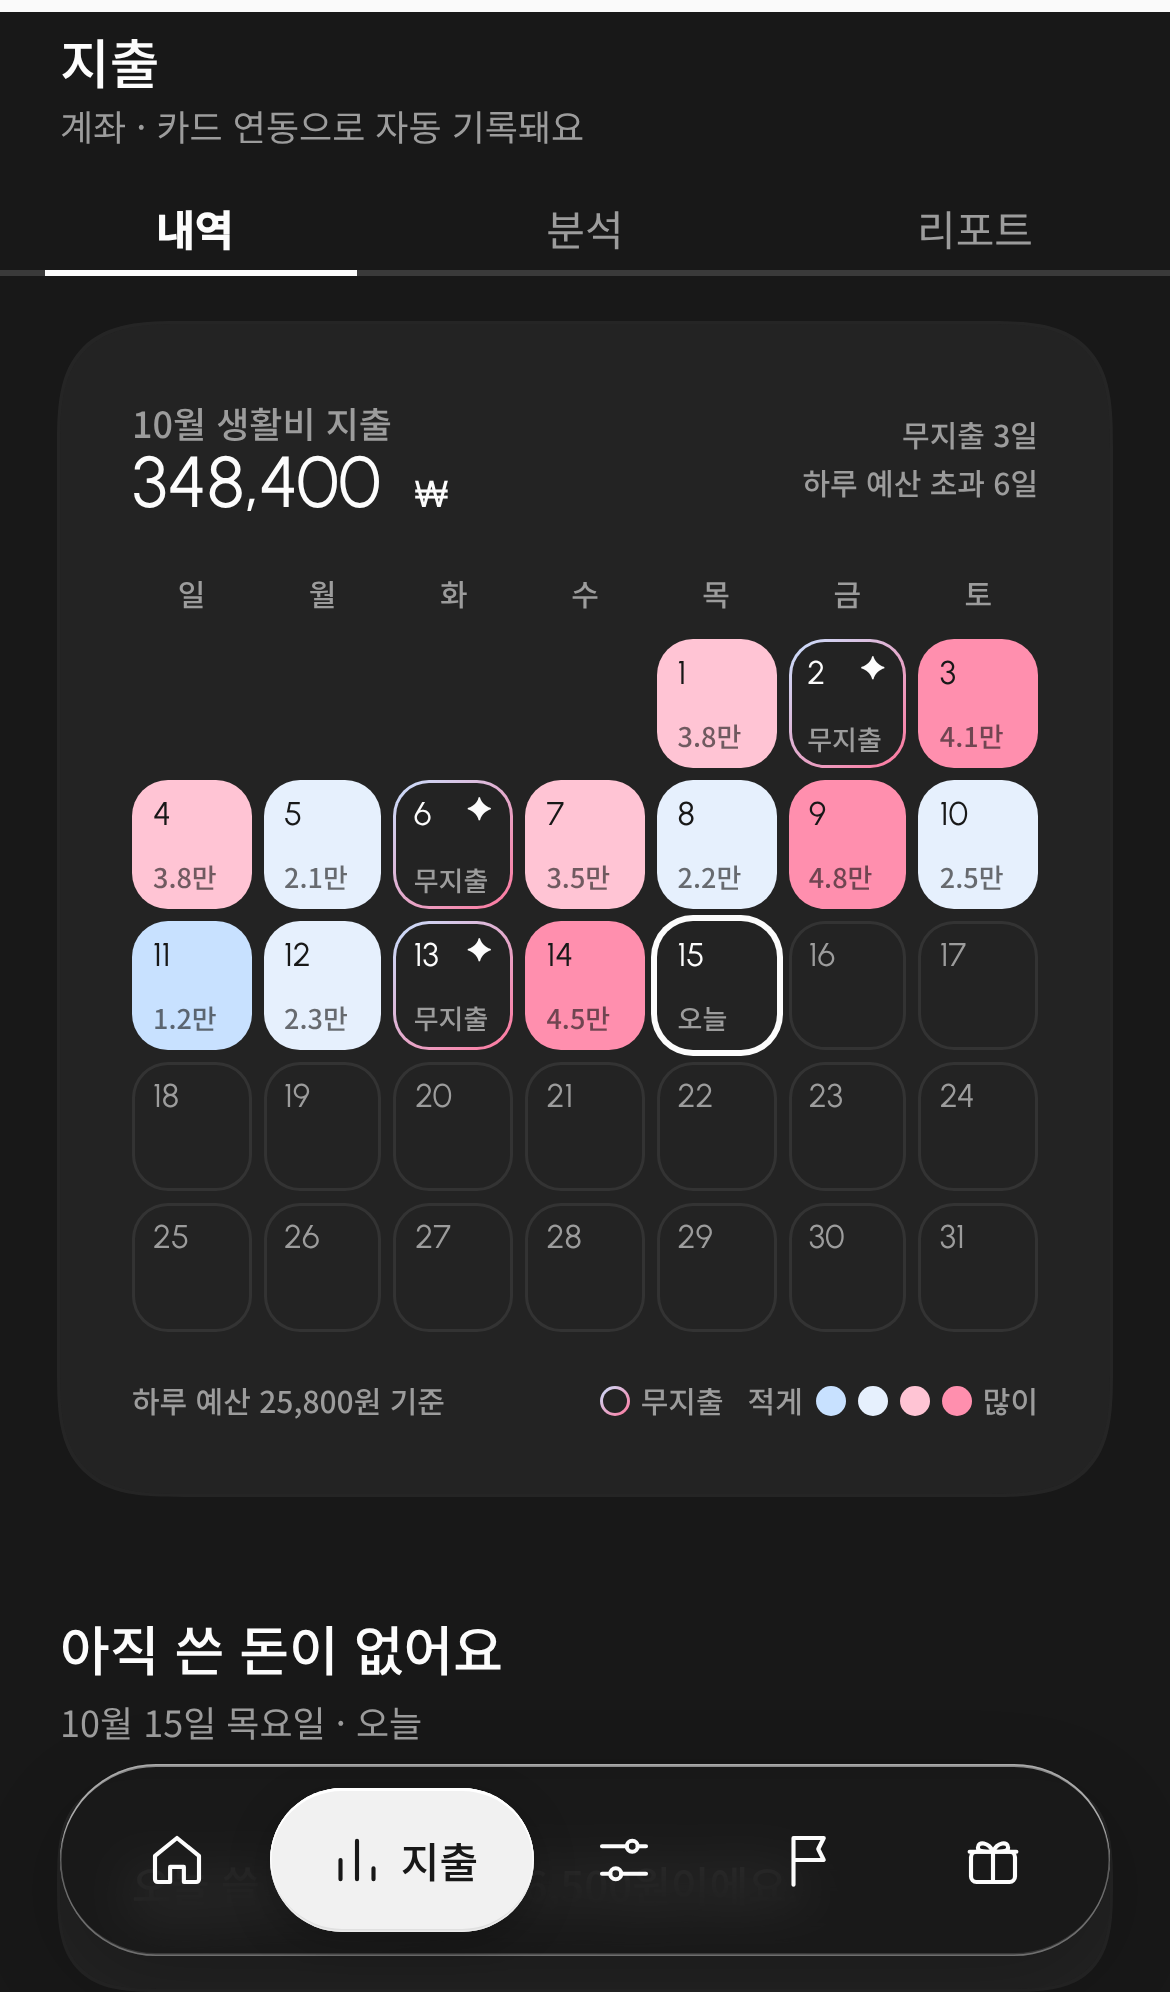
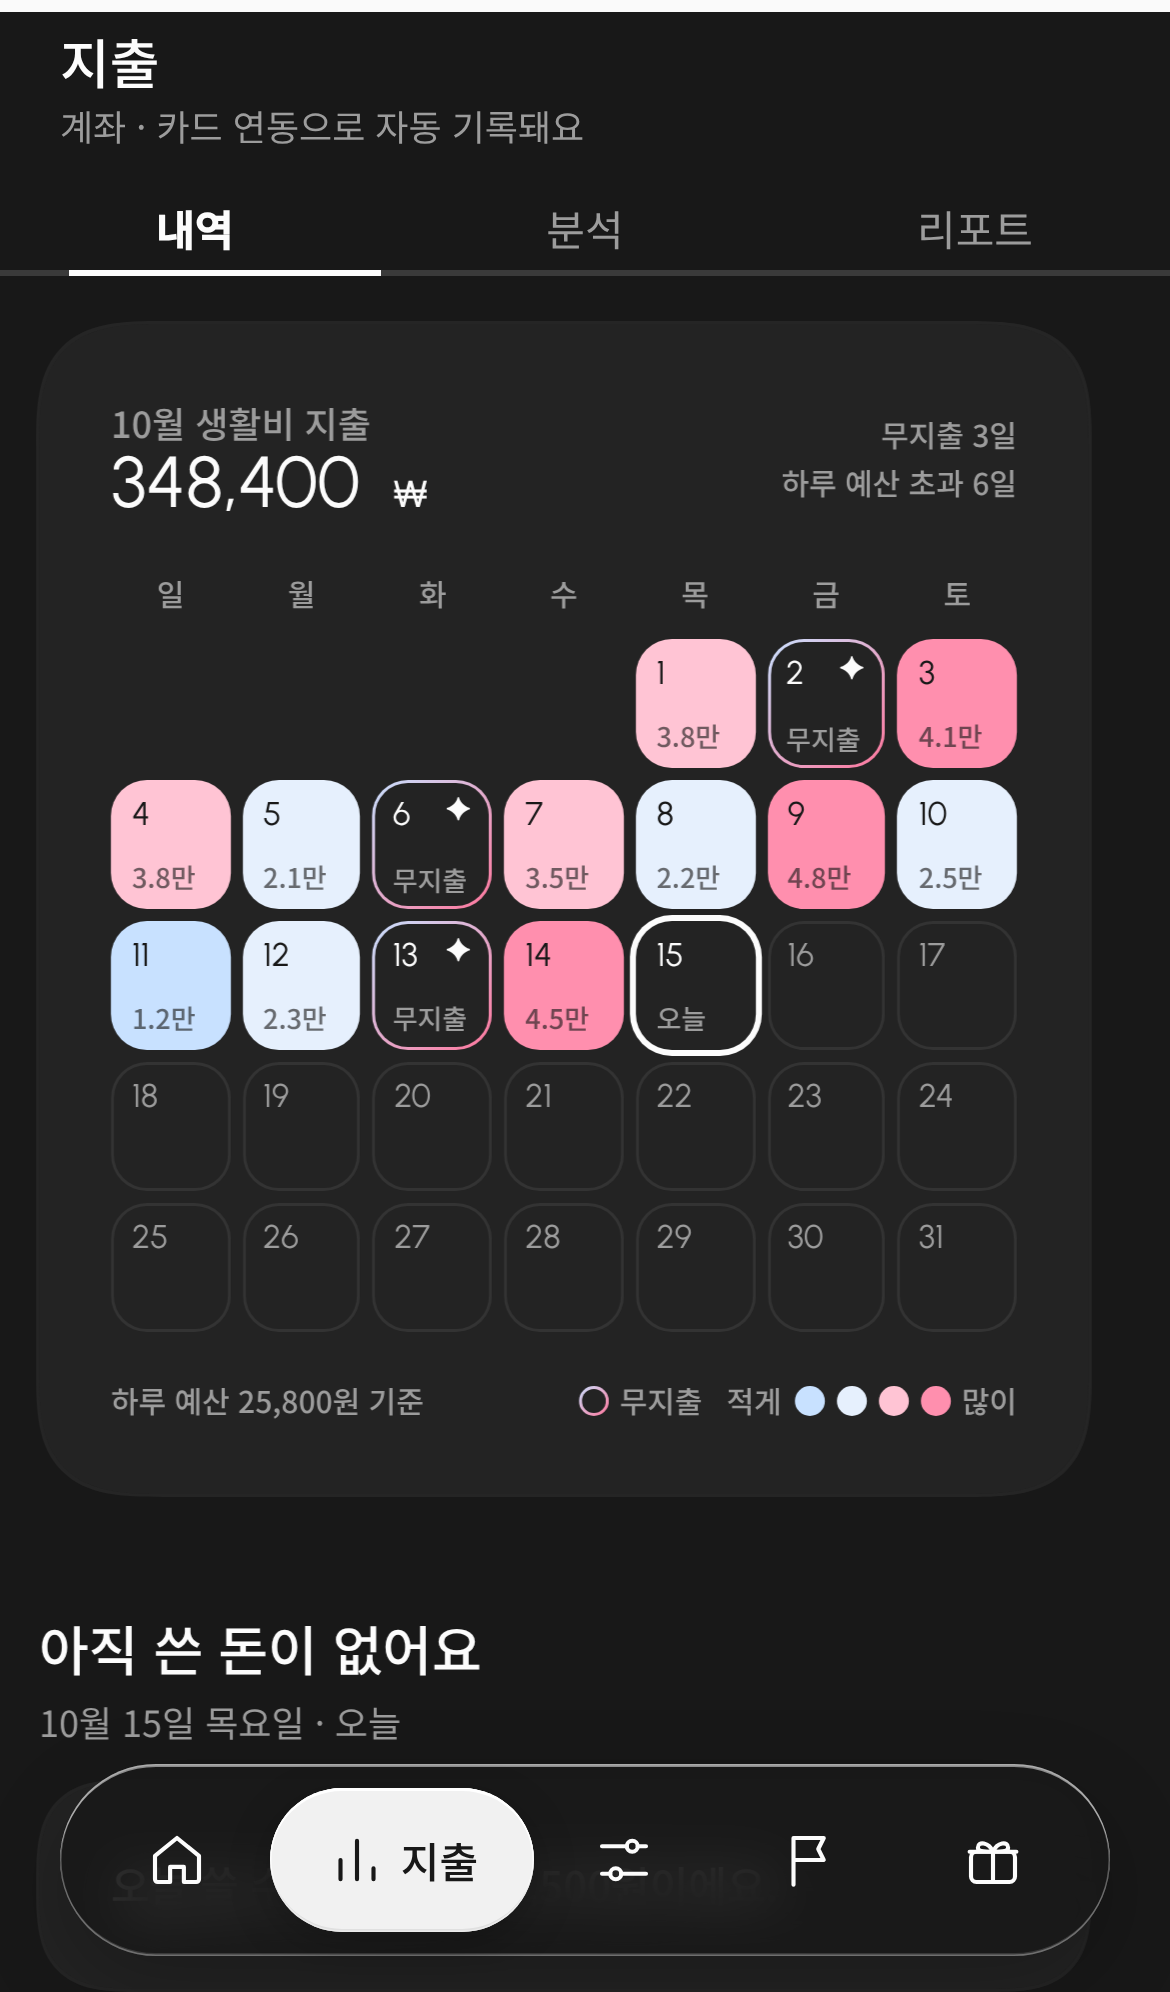
Sub-tab swipe: pager-style transition — the previous page slides out while the new one slides in alongside it, continuing from the finger position
Claude-Session: https://claude.ai/code/session_01VpnAjTRuZHLsKs1fRGNVt9

diff --git a/dist/finpick-mobile.html b/dist/finpick-mobile.html
@@ -219,8 +219,9 @@ svg{display:block}
 .utabs button{flex:1;height:40px;display:flex;align-items:flex-end;justify-content:center;padding-bottom:7px;font-size:14px;font-weight:400;line-height:17px;color:var(--mute);position:relative}
 .utabs button.on{color:var(--fg);font-weight:600}
 /* 밑줄은 하나만 두고 위치(--i)를 옮겨서, 세부 탭을 넘길 때 손가락을 따라 미끄러지게 */
-.utabs::after{content:"";position:absolute;bottom:0;height:2px;background:var(--fg);width:calc(80% / 3);left:calc((var(--i,0) + .1) * 100% / 3);transition:left .22s cubic-bezier(.3,.7,.3,1)}
+.utabs::after{content:"";position:absolute;bottom:0;height:2px;background:var(--fg);width:calc(80% / 3);left:calc((var(--i,0) + .1) * 100% / 3);transition:left .34s cubic-bezier(.3,.7,.3,1)}
 .utabs.drag::after{transition:none}
+.sub-ghost{position:absolute;left:0;right:0;padding:0 var(--m);display:flow-root;pointer-events:none}
 .utabs + .row,.shead + .row{margin-top:14px}
 .chip.pchip{height:28px;padding:0 12px;font-size:12px;gap:4px;box-shadow:none;border:.5px solid var(--line)}
 .screen.dark .chip.pchip{border-color:#595959}
@@ -1928,17 +1929,25 @@ const SUBS = { spend:['spendView', ['list','analysis','report']], plan:['planVie
 const subPanes = () => [...view.children].filter(c => !c.classList.contains('shead'));
 const setPanes = (els, x, t) => els.forEach(e => { e.style.transition = t ? `transform ${t}` : 'none'; e.style.transform = x ? `translateX(${x}px)` : ''; });
 let swipe = null, swiped = false;
-function goSub(ni, dir, from) {
-  // 이전 화면을 밀어내지 않고 바로 바꾼 뒤, 새 화면이 넘긴 방향에서 짧게(36px) 들어오게 해 어지럽지 않게
+function goSub(ni, dir, from, d = 0) {
+  // 페이지 넘김: 이전 화면(복제본)이 밀려 나가는 동시에 새 화면이 옆에서 이어 들어온다
   const [k, l] = SUBS[S.tab]; if (ni < 0 || ni >= l.length || l[ni] === S[k]) return;
+  const old = subPanes().filter(e => !e.classList.contains('sub-ghost') && !e.classList.contains('ht-end'));
+  const reduce = matchMedia('(prefers-reduced-motion: reduce)').matches, w = view.clientWidth;
+  let ghost = null;
+  if (!reduce && old.length) {
+    ghost = document.createElement('div'); ghost.className = 'sub-ghost';
+    ghost.style.top = (old[0].offsetTop - parseFloat(getComputedStyle(old[0]).marginTop) - view.scrollTop) + 'px';
+    old.forEach(e => { const c = e.cloneNode(true); c.style.transform = ''; c.style.transition = ''; c.removeAttribute('id'); c.querySelectorAll('[id]').forEach(x => x.removeAttribute('id')); ghost.append(c); });
+  }
   S[k] = l[ni]; render(false);
-  if (matchMedia('(prefers-reduced-motion: reduce)').matches) return;
-  const ut = view.querySelector('.utabs'), ne = subPanes();
+  if (reduce) return;
+  const ut = view.querySelector('.utabs'), ne = subPanes(), ease = '.34s cubic-bezier(.25,.8,.25,1)';
   if (ut) { ut.classList.add('drag'); ut.style.setProperty('--i', from); void ut.offsetWidth; ut.classList.remove('drag'); ut.style.setProperty('--i', ni); }
-  ne.forEach(e => { e.style.transition = 'none'; e.style.transform = `translateX(${dir * 36}px)`; e.style.opacity = '0'; });
-  void view.offsetWidth;
-  ne.forEach(e => { e.style.transition = 'transform .2s cubic-bezier(.2,.7,.3,1), opacity .16s linear'; e.style.transform = ''; e.style.opacity = ''; });
-  setTimeout(() => ne.forEach(e => { e.style.transition = ''; }), 220);
+  if (ghost) { ghost.style.transform = `translateX(${d}px)`; view.append(ghost); }
+  setPanes(ne, dir * w + d); void view.offsetWidth;
+  setPanes(ne, 0, ease); if (ghost) { ghost.style.transition = `transform ${ease}`; ghost.style.transform = `translateX(${-dir * w}px)`; }
+  setTimeout(() => { ne.forEach(e => { e.style.transition = ''; }); ghost && ghost.remove(); }, 360);
 }
 function swStart(x, y, tg) {
   if (S.mode !== 'app' || S.sub || !SUBS[S.tab] || !view.contains(tg)) return;
@@ -1965,7 +1974,7 @@ function swEnd() {
   const s = swipe; swipe = null; if (!s || !s.on) return;
   swiped = true; setTimeout(() => { swiped = false; }, 50);
   const dir = s.dx < 0 ? 1 : -1, ni = s.i + dir;
-  if (Math.abs(s.dx) > s.w * .2 && ni >= 0 && ni < s.n) return goSub(ni, dir, s.i - s.dx / s.w);
+  if (Math.abs(s.dx) > s.w * .2 && ni >= 0 && ni < s.n) return goSub(ni, dir, s.i - s.dx / s.w, s.dx);
   setPanes(s.els, 0, '.3s cubic-bezier(.2,.7,.3,1)');
   if (s.ut) { s.ut.classList.remove('drag'); s.ut.style.setProperty('--i', s.i); }
 }

diff --git a/dist/slip-mobile.html b/dist/slip-mobile.html
@@ -219,8 +219,9 @@ svg{display:block}
 .utabs button{flex:1;height:40px;display:flex;align-items:flex-end;justify-content:center;padding-bottom:7px;font-size:14px;font-weight:400;line-height:17px;color:var(--mute);position:relative}
 .utabs button.on{color:var(--fg);font-weight:600}
 /* 밑줄은 하나만 두고 위치(--i)를 옮겨서, 세부 탭을 넘길 때 손가락을 따라 미끄러지게 */
-.utabs::after{content:"";position:absolute;bottom:0;height:2px;background:var(--fg);width:calc(80% / 3);left:calc((var(--i,0) + .1) * 100% / 3);transition:left .22s cubic-bezier(.3,.7,.3,1)}
+.utabs::after{content:"";position:absolute;bottom:0;height:2px;background:var(--fg);width:calc(80% / 3);left:calc((var(--i,0) + .1) * 100% / 3);transition:left .34s cubic-bezier(.3,.7,.3,1)}
 .utabs.drag::after{transition:none}
+.sub-ghost{position:absolute;left:0;right:0;padding:0 var(--m);display:flow-root;pointer-events:none}
 .utabs + .row,.shead + .row{margin-top:14px}
 .chip.pchip{height:28px;padding:0 12px;font-size:12px;gap:4px;box-shadow:none;border:.5px solid var(--line)}
 .screen.dark .chip.pchip{border-color:#595959}
@@ -1928,17 +1929,25 @@ const SUBS = { spend:['spendView', ['list','analysis','report']], plan:['planVie
 const subPanes = () => [...view.children].filter(c => !c.classList.contains('shead'));
 const setPanes = (els, x, t) => els.forEach(e => { e.style.transition = t ? `transform ${t}` : 'none'; e.style.transform = x ? `translateX(${x}px)` : ''; });
 let swipe = null, swiped = false;
-function goSub(ni, dir, from) {
-  // 이전 화면을 밀어내지 않고 바로 바꾼 뒤, 새 화면이 넘긴 방향에서 짧게(36px) 들어오게 해 어지럽지 않게
+function goSub(ni, dir, from, d = 0) {
+  // 페이지 넘김: 이전 화면(복제본)이 밀려 나가는 동시에 새 화면이 옆에서 이어 들어온다
   const [k, l] = SUBS[S.tab]; if (ni < 0 || ni >= l.length || l[ni] === S[k]) return;
+  const old = subPanes().filter(e => !e.classList.contains('sub-ghost') && !e.classList.contains('ht-end'));
+  const reduce = matchMedia('(prefers-reduced-motion: reduce)').matches, w = view.clientWidth;
+  let ghost = null;
+  if (!reduce && old.length) {
+    ghost = document.createElement('div'); ghost.className = 'sub-ghost';
+    ghost.style.top = (old[0].offsetTop - parseFloat(getComputedStyle(old[0]).marginTop) - view.scrollTop) + 'px';
+    old.forEach(e => { const c = e.cloneNode(true); c.style.transform = ''; c.style.transition = ''; c.removeAttribute('id'); c.querySelectorAll('[id]').forEach(x => x.removeAttribute('id')); ghost.append(c); });
+  }
   S[k] = l[ni]; render(false);
-  if (matchMedia('(prefers-reduced-motion: reduce)').matches) return;
-  const ut = view.querySelector('.utabs'), ne = subPanes();
+  if (reduce) return;
+  const ut = view.querySelector('.utabs'), ne = subPanes(), ease = '.34s cubic-bezier(.25,.8,.25,1)';
   if (ut) { ut.classList.add('drag'); ut.style.setProperty('--i', from); void ut.offsetWidth; ut.classList.remove('drag'); ut.style.setProperty('--i', ni); }
-  ne.forEach(e => { e.style.transition = 'none'; e.style.transform = `translateX(${dir * 36}px)`; e.style.opacity = '0'; });
-  void view.offsetWidth;
-  ne.forEach(e => { e.style.transition = 'transform .2s cubic-bezier(.2,.7,.3,1), opacity .16s linear'; e.style.transform = ''; e.style.opacity = ''; });
-  setTimeout(() => ne.forEach(e => { e.style.transition = ''; }), 220);
+  if (ghost) { ghost.style.transform = `translateX(${d}px)`; view.append(ghost); }
+  setPanes(ne, dir * w + d); void view.offsetWidth;
+  setPanes(ne, 0, ease); if (ghost) { ghost.style.transition = `transform ${ease}`; ghost.style.transform = `translateX(${-dir * w}px)`; }
+  setTimeout(() => { ne.forEach(e => { e.style.transition = ''; }); ghost && ghost.remove(); }, 360);
 }
 function swStart(x, y, tg) {
   if (S.mode !== 'app' || S.sub || !SUBS[S.tab] || !view.contains(tg)) return;
@@ -1965,7 +1974,7 @@ function swEnd() {
   const s = swipe; swipe = null; if (!s || !s.on) return;
   swiped = true; setTimeout(() => { swiped = false; }, 50);
   const dir = s.dx < 0 ? 1 : -1, ni = s.i + dir;
-  if (Math.abs(s.dx) > s.w * .2 && ni >= 0 && ni < s.n) return goSub(ni, dir, s.i - s.dx / s.w);
+  if (Math.abs(s.dx) > s.w * .2 && ni >= 0 && ni < s.n) return goSub(ni, dir, s.i - s.dx / s.w, s.dx);
   setPanes(s.els, 0, '.3s cubic-bezier(.2,.7,.3,1)');
   if (s.ut) { s.ut.classList.remove('drag'); s.ut.style.setProperty('--i', s.i); }
 }

diff --git a/index.html b/index.html
@@ -219,8 +219,9 @@ svg{display:block}
 .utabs button{flex:1;height:40px;display:flex;align-items:flex-end;justify-content:center;padding-bottom:7px;font-size:14px;font-weight:400;line-height:17px;color:var(--mute);position:relative}
 .utabs button.on{color:var(--fg);font-weight:600}
 /* 밑줄은 하나만 두고 위치(--i)를 옮겨서, 세부 탭을 넘길 때 손가락을 따라 미끄러지게 */
-.utabs::after{content:"";position:absolute;bottom:0;height:2px;background:var(--fg);width:calc(80% / 3);left:calc((var(--i,0) + .1) * 100% / 3);transition:left .22s cubic-bezier(.3,.7,.3,1)}
+.utabs::after{content:"";position:absolute;bottom:0;height:2px;background:var(--fg);width:calc(80% / 3);left:calc((var(--i,0) + .1) * 100% / 3);transition:left .34s cubic-bezier(.3,.7,.3,1)}
 .utabs.drag::after{transition:none}
+.sub-ghost{position:absolute;left:0;right:0;padding:0 var(--m);display:flow-root;pointer-events:none}
 .utabs + .row,.shead + .row{margin-top:14px}
 .chip.pchip{height:28px;padding:0 12px;font-size:12px;gap:4px;box-shadow:none;border:.5px solid var(--line)}
 .screen.dark .chip.pchip{border-color:#595959}
@@ -1928,17 +1929,25 @@ const SUBS = { spend:['spendView', ['list','analysis','report']], plan:['planVie
 const subPanes = () => [...view.children].filter(c => !c.classList.contains('shead'));
 const setPanes = (els, x, t) => els.forEach(e => { e.style.transition = t ? `transform ${t}` : 'none'; e.style.transform = x ? `translateX(${x}px)` : ''; });
 let swipe = null, swiped = false;
-function goSub(ni, dir, from) {
-  // 이전 화면을 밀어내지 않고 바로 바꾼 뒤, 새 화면이 넘긴 방향에서 짧게(36px) 들어오게 해 어지럽지 않게
+function goSub(ni, dir, from, d = 0) {
+  // 페이지 넘김: 이전 화면(복제본)이 밀려 나가는 동시에 새 화면이 옆에서 이어 들어온다
   const [k, l] = SUBS[S.tab]; if (ni < 0 || ni >= l.length || l[ni] === S[k]) return;
+  const old = subPanes().filter(e => !e.classList.contains('sub-ghost') && !e.classList.contains('ht-end'));
+  const reduce = matchMedia('(prefers-reduced-motion: reduce)').matches, w = view.clientWidth;
+  let ghost = null;
+  if (!reduce && old.length) {
+    ghost = document.createElement('div'); ghost.className = 'sub-ghost';
+    ghost.style.top = (old[0].offsetTop - parseFloat(getComputedStyle(old[0]).marginTop) - view.scrollTop) + 'px';
+    old.forEach(e => { const c = e.cloneNode(true); c.style.transform = ''; c.style.transition = ''; c.removeAttribute('id'); c.querySelectorAll('[id]').forEach(x => x.removeAttribute('id')); ghost.append(c); });
+  }
   S[k] = l[ni]; render(false);
-  if (matchMedia('(prefers-reduced-motion: reduce)').matches) return;
-  const ut = view.querySelector('.utabs'), ne = subPanes();
+  if (reduce) return;
+  const ut = view.querySelector('.utabs'), ne = subPanes(), ease = '.34s cubic-bezier(.25,.8,.25,1)';
   if (ut) { ut.classList.add('drag'); ut.style.setProperty('--i', from); void ut.offsetWidth; ut.classList.remove('drag'); ut.style.setProperty('--i', ni); }
-  ne.forEach(e => { e.style.transition = 'none'; e.style.transform = `translateX(${dir * 36}px)`; e.style.opacity = '0'; });
-  void view.offsetWidth;
-  ne.forEach(e => { e.style.transition = 'transform .2s cubic-bezier(.2,.7,.3,1), opacity .16s linear'; e.style.transform = ''; e.style.opacity = ''; });
-  setTimeout(() => ne.forEach(e => { e.style.transition = ''; }), 220);
+  if (ghost) { ghost.style.transform = `translateX(${d}px)`; view.append(ghost); }
+  setPanes(ne, dir * w + d); void view.offsetWidth;
+  setPanes(ne, 0, ease); if (ghost) { ghost.style.transition = `transform ${ease}`; ghost.style.transform = `translateX(${-dir * w}px)`; }
+  setTimeout(() => { ne.forEach(e => { e.style.transition = ''; }); ghost && ghost.remove(); }, 360);
 }
 function swStart(x, y, tg) {
   if (S.mode !== 'app' || S.sub || !SUBS[S.tab] || !view.contains(tg)) return;
@@ -1965,7 +1974,7 @@ function swEnd() {
   const s = swipe; swipe = null; if (!s || !s.on) return;
   swiped = true; setTimeout(() => { swiped = false; }, 50);
   const dir = s.dx < 0 ? 1 : -1, ni = s.i + dir;
-  if (Math.abs(s.dx) > s.w * .2 && ni >= 0 && ni < s.n) return goSub(ni, dir, s.i - s.dx / s.w);
+  if (Math.abs(s.dx) > s.w * .2 && ni >= 0 && ni < s.n) return goSub(ni, dir, s.i - s.dx / s.w, s.dx);
   setPanes(s.els, 0, '.3s cubic-bezier(.2,.7,.3,1)');
   if (s.ut) { s.ut.classList.remove('drag'); s.ut.style.setProperty('--i', s.i); }
 }
